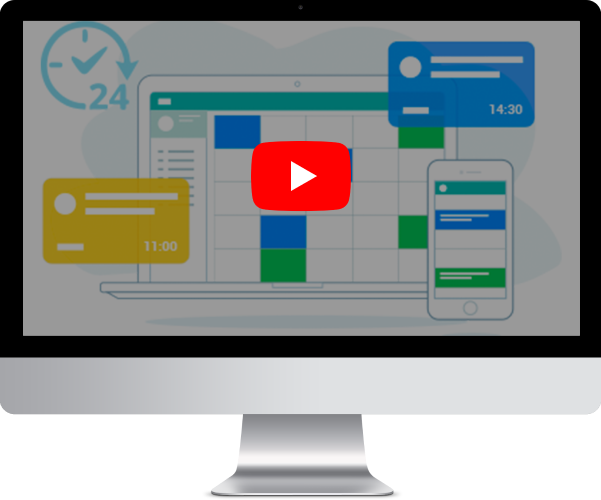
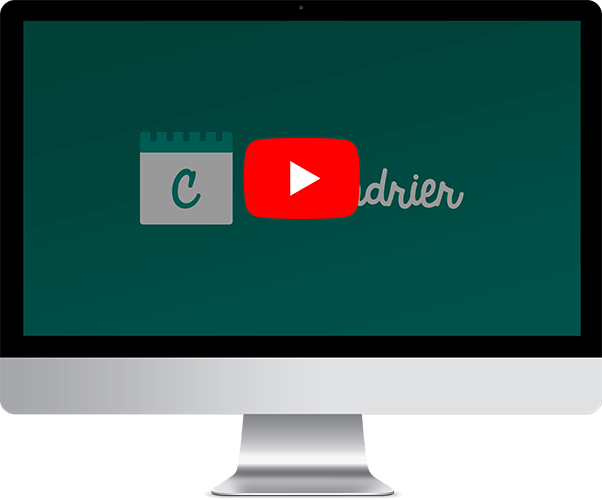
alterando a URL do vídeo do YT e alterando a imagem chamada do vídeo

diff --git a/js/script.js b/js/script.js
@@ -15,7 +15,7 @@ $(function () {
     
     //Click na TV destaque pra exibir o vídeo do YouTube em modal
     $('.btn-video').click(function() {
-        $('.embed-responsive-item').attr('src', "https://www.youtube.com/embed/ZcxrV1m36IY?autoplay=1");
+        $('.embed-responsive-item').attr('src', "https://www.youtube.com/embed/H2um7agAqQQ?autoplay=1");
         $('#video-modal').modal('toggle');
     });
 
